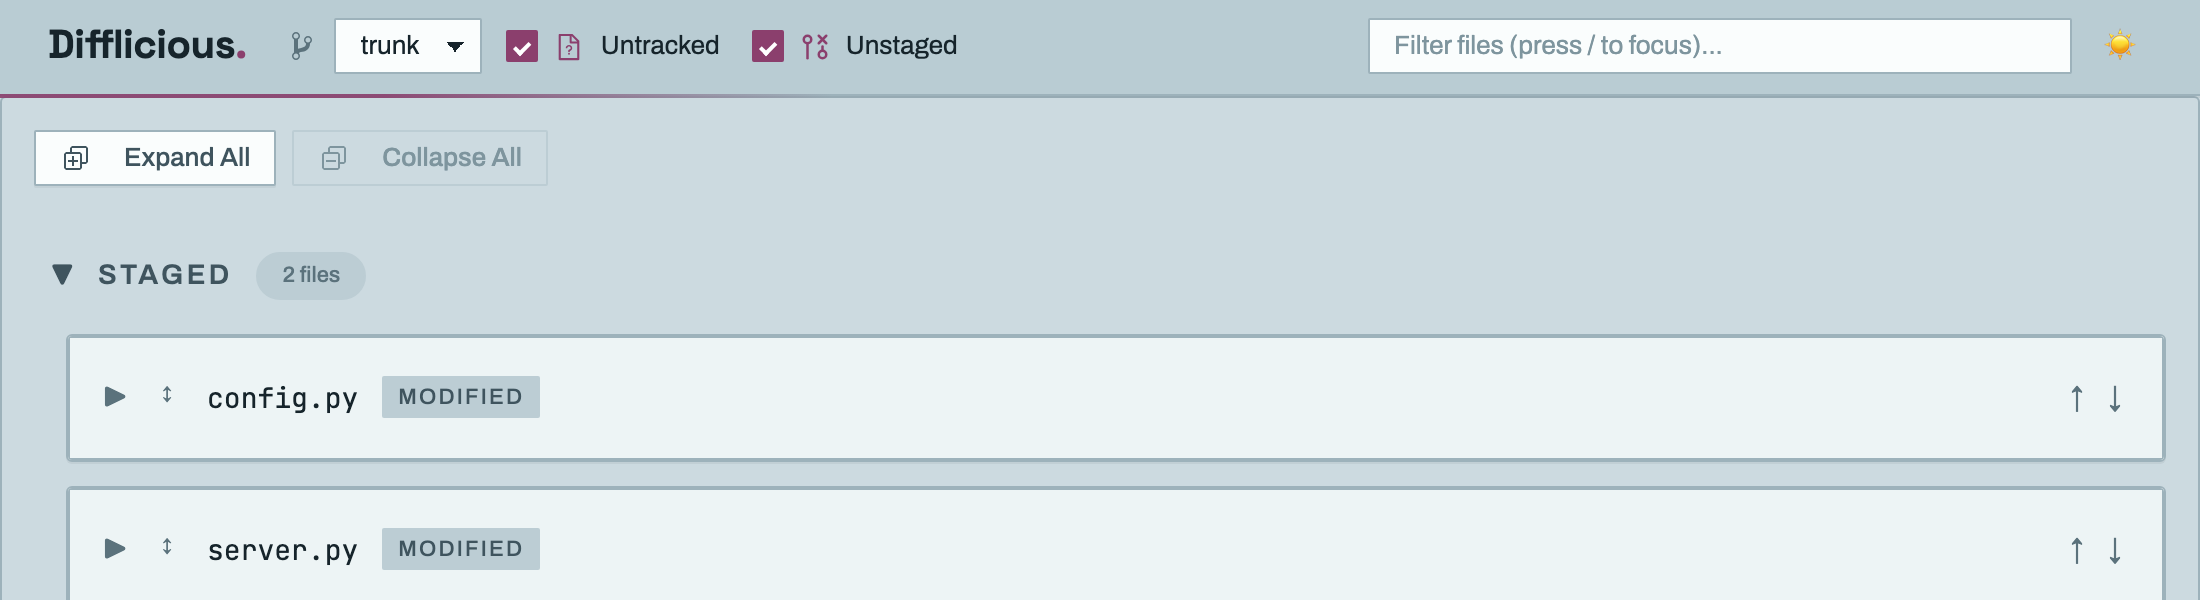
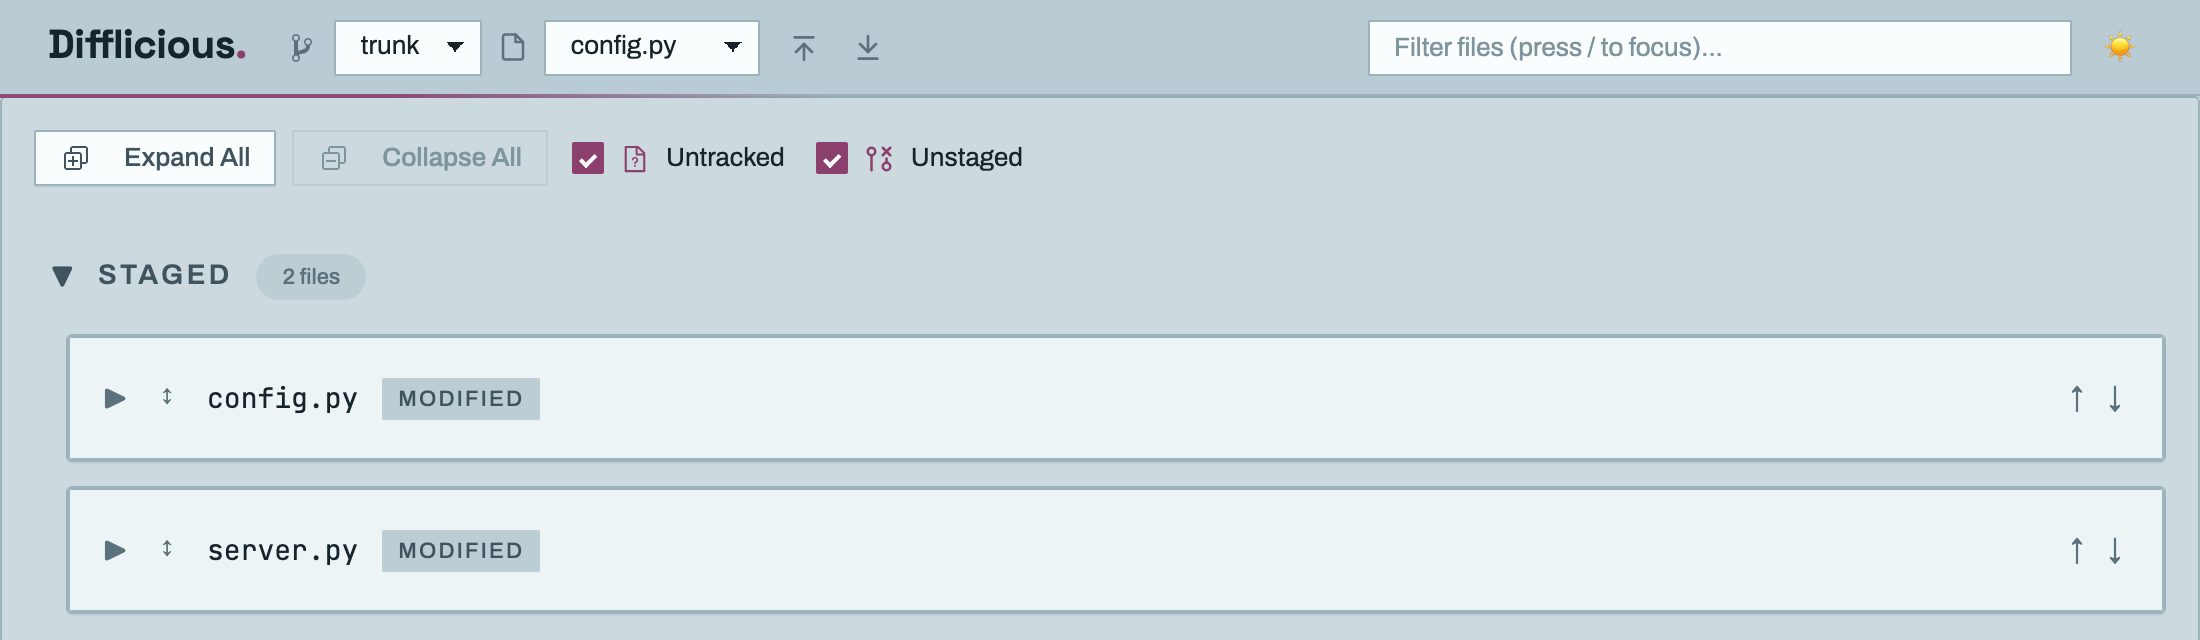
Reshoot the theme proposals on the redesigned toolbar
Rebased onto #85, which pinned the toolbar, moved the Unstaged/Untracked
toggles into the controls row and added the file dropdown and
jump-to-end controls. None of that touched the files this branch changes,
so it merged clean, but every proposal screenshot showed the old chrome.

All three themes override --toolbar-height, which the redesign made load
bearing: file headers now pin at --file-header-sticky-offset, which must
equal the toolbar's height. It resolves through --toolbar-height and
navStore publishes the bar's measured height, so the pinned header
tracks each theme's chrome exactly -- verified at 56/48/56px against
ledger's 52px, with no gap in any of them. Recorded in the proposal doc.

diff --git a/docs/internal/theme-proposals.md b/docs/internal/theme-proposals.md
@@ -98,6 +98,30 @@ light Riso.
 
 ---
 
+## Interaction with the pinned toolbar
+
+Rebased onto the toolbar redesign (#85), which made the toolbar sticky and pins
+file headers beneath it at `--file-header-sticky-offset`, now defined as
+`var(--toolbar-height-measured, var(--toolbar-height))` and required to equal the
+toolbar's height.
+
+All three proposals override `--toolbar-height` — Terrace and Riso to `3.5rem`,
+Draught down to `3rem`. That is safe, and worth recording why: the offset
+resolves *through* `--toolbar-height`, and `navStore` publishes the bar's real
+rendered height into `--toolbar-height-measured` via a `ResizeObserver`, so the
+pinned header follows a theme's chrome without the theme having to know the
+contract exists. Verified per theme, with the header pinned:
+
+| Theme | `--toolbar-height` | measured | gap between toolbar and pinned header |
+|---|---|---|---|
+| `ledger` | 3.25rem | 52px | 0px |
+| `terrace` | 3.5rem | 56px | 0px |
+| `draught` | 3rem | 48px | 0px |
+| `riso` | 3.5rem | 56px | 0px |
+
+A theme that set a *fixed* `--file-header-sticky-offset` instead would break this,
+so it is best left alone.
+
 ## Two fixes to the screenshot harness, made along the way
 
 Both are in `scripts/screenshot.py` and are independent of which theme wins.
